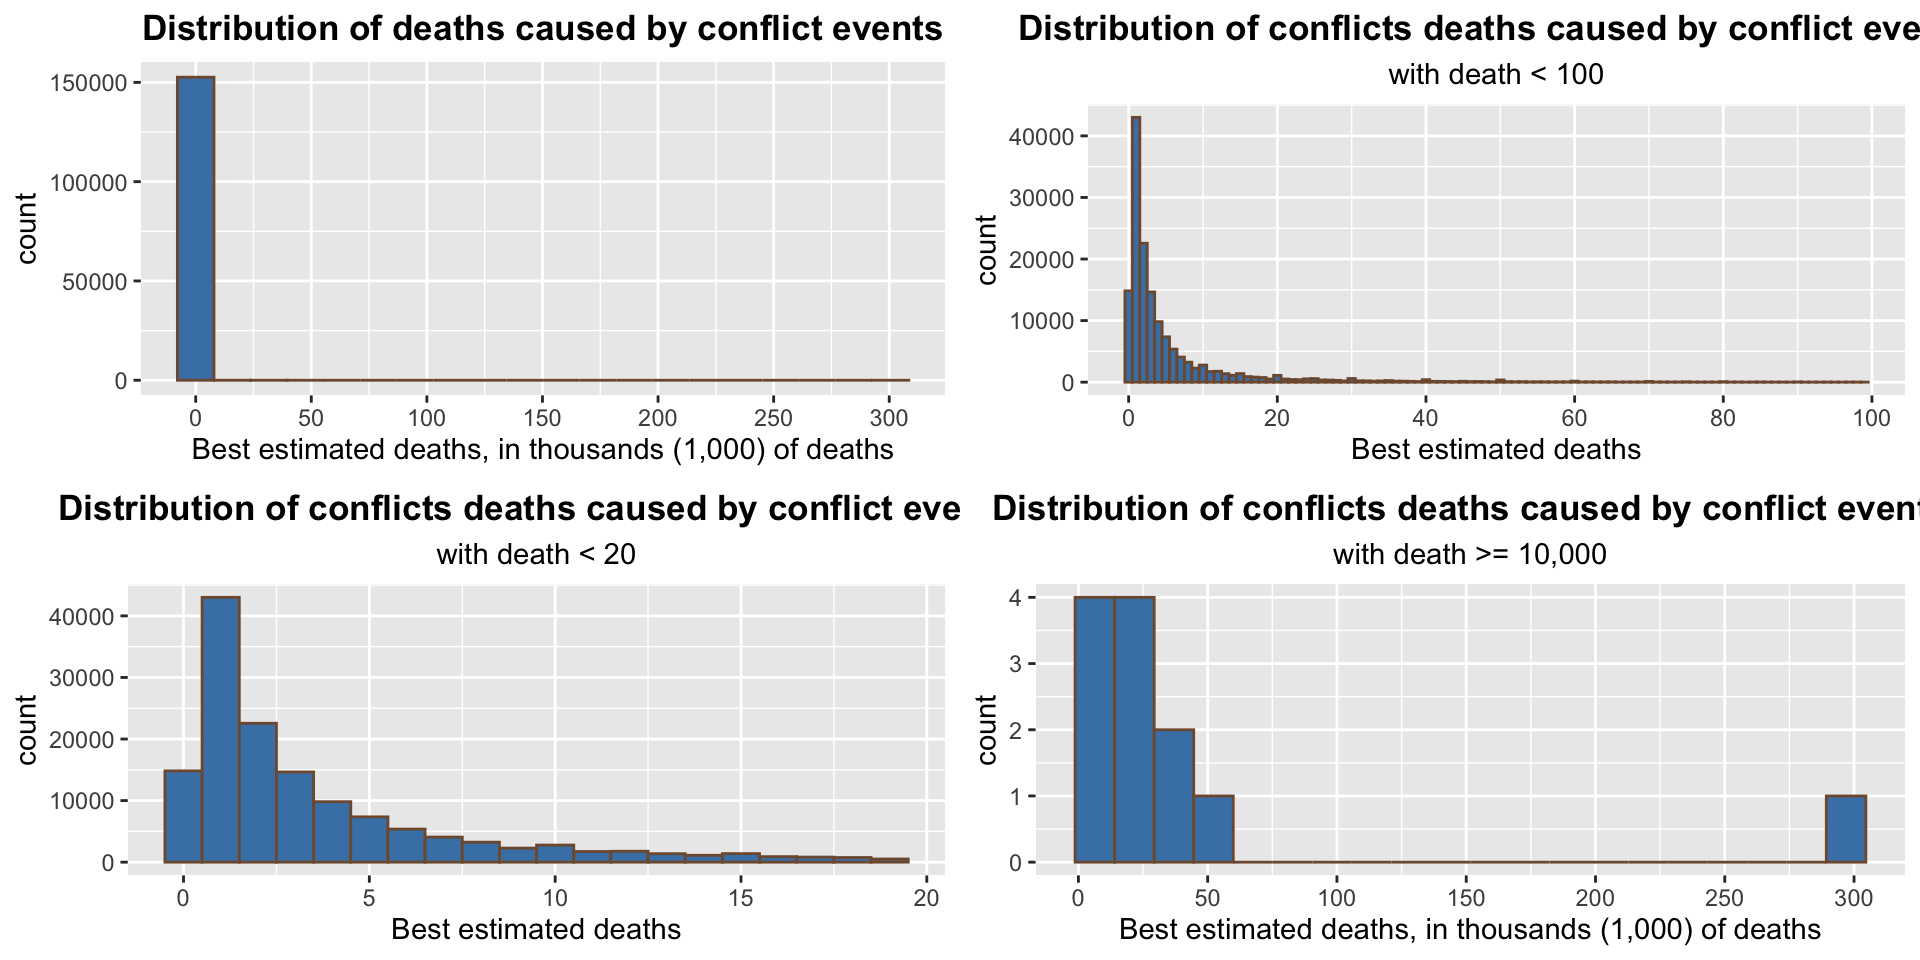
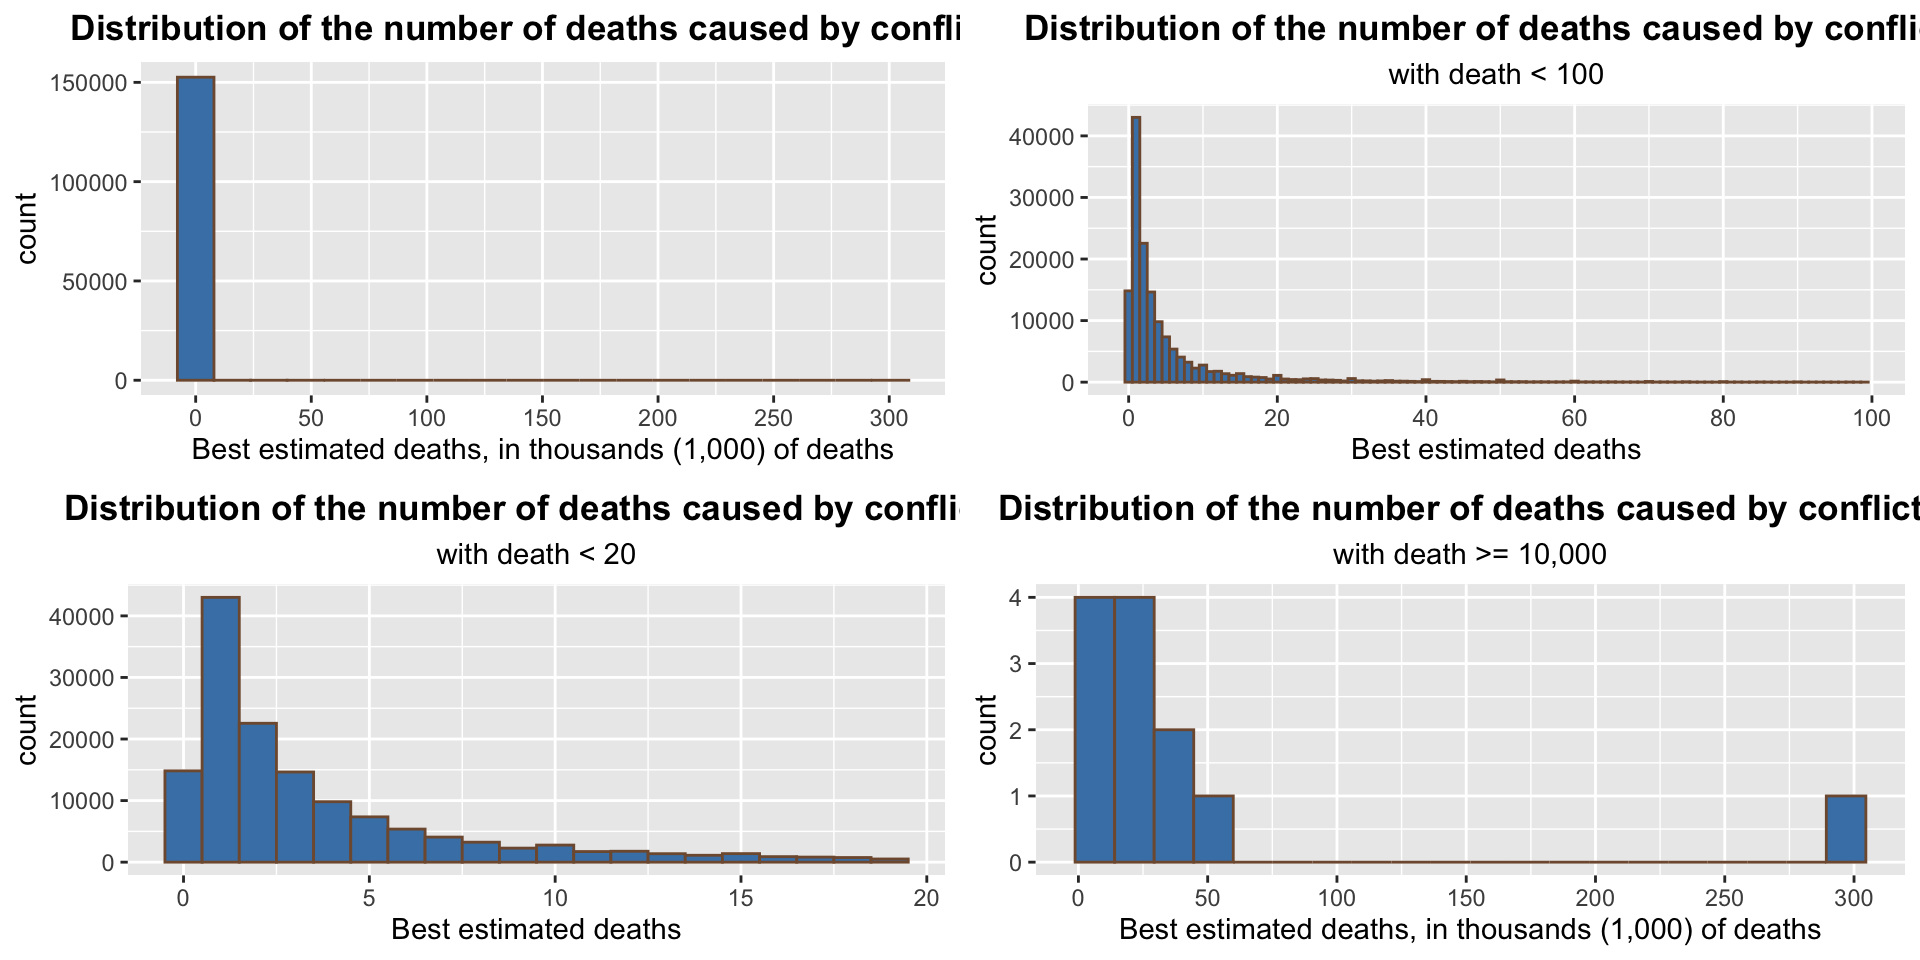
Update files

Changed region(s): [[0.0312, 0.5, 1.0, 0.5625], [0.5312, 0.0, 1.0, 0.0625], [0.0312, 0.0, 0.5, 0.0625]]

diff --git a/docs/results.html b/docs/results.html
@@ -74,7 +74,7 @@
 <li class="chapter" data-level="3" data-path="data-transformation.html"><a href="data-transformation.html"><i class="fa fa-check"></i><b>3</b> Data transformation</a></li>
 <li class="chapter" data-level="4" data-path="missing-values.html"><a href="missing-values.html"><i class="fa fa-check"></i><b>4</b> Missing values</a></li>
 <li class="chapter" data-level="5" data-path="results.html"><a href="results.html"><i class="fa fa-check"></i><b>5</b> Results</a><ul>
-<li class="chapter" data-level="5.1" data-path="results.html"><a href="results.html#distribution-of-the-number-of-deaths-based-on-conflict"><i class="fa fa-check"></i><b>5.1</b> Distribution of the number of deaths based on conflict</a></li>
+<li class="chapter" data-level="5.1" data-path="results.html"><a href="results.html#distribution-of-the-number-of-deaths-based-on-conflicts"><i class="fa fa-check"></i><b>5.1</b> Distribution of the number of deaths based on conflicts</a></li>
 <li class="chapter" data-level="5.2" data-path="results.html"><a href="results.html#relation-between-conflict-and-time"><i class="fa fa-check"></i><b>5.2</b> Relation between conflict and time</a></li>
 <li class="chapter" data-level="5.3" data-path="results.html"><a href="results.html#patterns-between-geographical-location-and-type-of-violence"><i class="fa fa-check"></i><b>5.3</b> Patterns between geographical location and type of violence</a></li>
 </ul></li>
@@ -104,12 +104,12 @@
             <section class="normal" id="section-">
 <div id="results" class="section level1">
 <h1><span class="header-section-number">Chapter 5</span> Results</h1>
-<div id="distribution-of-the-number-of-deaths-based-on-conflict" class="section level2">
-<h2><span class="header-section-number">5.1</span> Distribution of the number of deaths based on conflict</h2>
+<div id="distribution-of-the-number-of-deaths-based-on-conflicts" class="section level2">
+<h2><span class="header-section-number">5.1</span> Distribution of the number of deaths based on conflicts</h2>
 <p><img src="https://raw.githubusercontent.com/tonyytliu/world_conflict_data/master/docs/_main_files/figure-html/unnamed-chunk-13-1.png" width="960" style="display: block; margin: auto;" /></p>
-<p>As shown in the top-left plot, the dataset is highly skewed and imbalanced. When we focus on the data with death less than 100 people, we can see the data are more concentrated in &lt;20 regions. Most conflict events have less than five deaths.</p>
+<p>As shown in the top-left plot, the dataset is highly skewed and imbalanced. When we focus on the data with death less than 100 people, we can see the data are more concentrated in &lt;20 regions. Most conflicts have less than five deaths.</p>
 <p><img src="https://raw.githubusercontent.com/tonyytliu/world_conflict_data/master/docs/_main_files/figure-html/unnamed-chunk-14-1.png" width="768" style="display: block; margin: auto;" /></p>
-<p>The above Cleveland plot shows top conflict events which caused most deaths (<span class="math inline">\(\geq\)</span> 5,000), there is a conflict event happened in Rwanda caused approximately 300,000 deaths, which is much more than other conflicts event. Also, most of those events causing significant fatalities were taken place in Rwanda.</p>
+<p>The above Cleveland plot shows top conflicts which caused most deaths (<span class="math inline">\(\geq\)</span> 5,000), there is a conflict happened in Rwanda caused approximately 300,000 deaths, which is much more than other conflicts. Also, most of the conflicts causing significant fatalities were taken place in Rwanda.</p>
 <table>
 <thead>
 <tr class="header">
@@ -204,16 +204,16 @@
 </tr>
 </tbody>
 </table>
-<p>After an investigation of those conflict events, we found out most of them are between the Government of Rewanda and civilians, which was related to the <a href="https://en.wikipedia.org/wiki/Rwandan_genocide" target="_blank">Rwanda genocide</a> in 1994.</p>
+<p>After an investigation of those conflicts, we found out most of them are between the Government of Rewanda and civilians, which was related to the <a href="https://en.wikipedia.org/wiki/Rwandan_genocide" target="_blank">Rwanda genocide</a> in 1994.</p>
 </div>
 <div id="relation-between-conflict-and-time" class="section level2">
 <h2><span class="header-section-number">5.2</span> Relation between conflict and time</h2>
 <p><img src="https://raw.githubusercontent.com/tonyytliu/world_conflict_data/master/docs/_main_files/figure-html/unnamed-chunk-16-1.png" width="480" style="display: block; margin: auto;" /></p>
-<p>As shown in the bar chart, the number of conflict events that occur in each year tends to increase from 1998 to 2018. The number of conflicts is lowest in 1997.</p>
+<p>As shown in the bar chart, the number of conflicts that occur in each year tends to increase from 1998 to 2018. The number of conflicts is lowest in 1997.</p>
 <p><img src="https://raw.githubusercontent.com/tonyytliu/world_conflict_data/master/docs/_main_files/figure-html/unnamed-chunk-18-1.png" width="960" style="display: block; margin: auto;" /></p>
 <p>The conflict-caused deaths are extremely high in 1994, as shown in the left plot. As mentioned in the previous point, a high number of deaths were probably related to the Rwanda genocide. When we filter out the data related to the Rwanda genocide, we get the plot on the right. The conflict-caused death per year decreased from 1989 until 2005, after 2005, the number tends to increase.</p>
 <p><img src="https://raw.githubusercontent.com/tonyytliu/world_conflict_data/master/docs/_main_files/figure-html/unnamed-chunk-19-1.png" width="768" style="display: block; margin: auto;" /></p>
-<p>Most conflict events are state-based conflict, i.e., the conflict involved with “[a] government of a state or any opposition organization or alliance of organizations” [<a href="https://ucdp.uu.se/downloads/ged/ged191.pdf" target="_blank">source</a>, pp.28-29], which is higher in number comparing to the other two types of conflict. Before 2018, there are more one-side conflicts (against civilians) than non-state conflicts (between two armed groups). But in 2018, there are more non-state conflicts compare to one-side conflict.</p>
+<p>Most conflicts are state-based conflict, i.e., the conflict involved with “[a] government of a state or any opposition organization or alliance of organizations” [<a href="https://ucdp.uu.se/downloads/ged/ged191.pdf" target="_blank">source</a>, pp.28-29], which is higher in number comparing to the other two types of conflict. Before 2018, there are more one-side conflicts (against civilians) than non-state conflicts (between two armed groups). But in 2018, there are more non-state conflicts compare to one-side conflict.</p>
 <p>If you are interested in the detailed and formal definition of these three types of conflict, please refer to this <a href="https://ucdp.uu.se/downloads/ged/ged191.pdf" target="_blank">source</a>, pp. 28-31.</p>
 <p>We want to check further how many civilians deaths each year, compare to the deaths of non-civilians caused by conflicts.</p>
 <p><img src="https://raw.githubusercontent.com/tonyytliu/world_conflict_data/master/docs/_main_files/figure-html/unnamed-chunk-20-1.png" width="960" style="display: block; margin: auto;" /></p>

diff --git a/docs/data-sources.html b/docs/data-sources.html
@@ -74,7 +74,7 @@
 <li class="chapter" data-level="3" data-path="data-transformation.html"><a href="data-transformation.html"><i class="fa fa-check"></i><b>3</b> Data transformation</a></li>
 <li class="chapter" data-level="4" data-path="missing-values.html"><a href="missing-values.html"><i class="fa fa-check"></i><b>4</b> Missing values</a></li>
 <li class="chapter" data-level="5" data-path="results.html"><a href="results.html"><i class="fa fa-check"></i><b>5</b> Results</a><ul>
-<li class="chapter" data-level="5.1" data-path="results.html"><a href="results.html#distribution-of-the-number-of-deaths-based-on-conflict"><i class="fa fa-check"></i><b>5.1</b> Distribution of the number of deaths based on conflict</a></li>
+<li class="chapter" data-level="5.1" data-path="results.html"><a href="results.html#distribution-of-the-number-of-deaths-based-on-conflicts"><i class="fa fa-check"></i><b>5.1</b> Distribution of the number of deaths based on conflicts</a></li>
 <li class="chapter" data-level="5.2" data-path="results.html"><a href="results.html#relation-between-conflict-and-time"><i class="fa fa-check"></i><b>5.2</b> Relation between conflict and time</a></li>
 <li class="chapter" data-level="5.3" data-path="results.html"><a href="results.html#patterns-between-geographical-location-and-type-of-violence"><i class="fa fa-check"></i><b>5.3</b> Patterns between geographical location and type of violence</a></li>
 </ul></li>
@@ -106,7 +106,7 @@
 <h1><span class="header-section-number">Chapter 2</span> Data sources</h1>
 <p>UCDP Georeferenced Event Dataset (GED) Global version 19.1 from UCDP Dataset (<a href="https://ucdp.uu.se/downloads/index.html#ged_global" class="uri">https://ucdp.uu.se/downloads/index.html#ged_global</a>) is used in our project, this dataset covers “individual events of organized violence (phenomena of lethal violence occurring at a given time and place)” in a world-wide perspective [<a href="https://ucdp.uu.se/downloads/index.html#ged_global" target="_blank">source</a>].</p>
 <p>There are 152,616 records in the dataset, and each record in the dataset is an event of a specific conflict. An event of a conflict is defined as “An incident where armed force was used by an organized actor against another organized actor, or against civilians.” [<a href="https://ucdp.uu.se/downloads/ged/ged191.pdf" target="_blank">source</a>].</p>
-<p>To avoid potential ambiguities, “conflict event” is used in our project to express the term “event” in the original terminology. This dataset contains data of armed conflict events from a world-wide perspective, from 1989 to 2018; includes the time, geographic location, type, casualties, and other information regarding the conflict event.</p>
+<p>We simply use the term “conflict” in our project to express “event of a conflict” or “event” in the original terminology. This dataset contains data of armed conflict events from a world-wide perspective, from 1989 to 2018; includes the time, geographic location, type, casualties, and other information regarding the conflict event.</p>
 <p>There are a total of 43 variables in the original dataset, and for the full definitions and explanations of variables, please refer to the dataset’s codebook [<a href="https://ucdp.uu.se/downloads/ged/ged191.pdf" target="_blank">source</a>]. However, there are some repeated variables. For example, there are several variables to represent the geo-location of one conflict event, they refer to the same location, but in different formats to suit different geographic databases. In our study, for the location variables, we are only interested in the vanilla <code>latitude</code> and <code>longitude</code> variables.</p>
 <p>For the propose of analyzing conflicts’ data patterns in this project, we mostly focus on a subset of variables; the following are the variables and their explanations. Explanations are referred from the codebook of the dataset [<a href="https://ucdp.uu.se/downloads/ged/ged191.pdf" target="_blank">source</a>].</p>
 <table>
@@ -119,19 +119,19 @@
 <tbody>
 <tr class="odd">
 <td align="left">id</td>
-<td align="left">An unique ID identifying a conflict event</td>
+<td align="left">An unique ID identifying an event of the conflict</td>
 </tr>
 <tr class="even">
 <td align="left">date_start</td>
-<td align="left">The earliest possible date when the conflict event has taken place</td>
+<td align="left">The earliest possible date when the conflict has taken place</td>
 </tr>
 <tr class="odd">
 <td align="left">date_end</td>
-<td align="left">The last possible date when the conflict event has taken place</td>
+<td align="left">The last possible date when the conflict has taken place</td>
 </tr>
 <tr class="even">
 <td align="left">year</td>
-<td align="left">The year of the conflict event</td>
+<td align="left">The year of the conflict happened</td>
 </tr>
 <tr class="odd">
 <td align="left">type_of_violence</td>

diff --git a/docs/index.html b/docs/index.html
@@ -74,7 +74,7 @@
 <li class="chapter" data-level="3" data-path="data-transformation.html"><a href="data-transformation.html"><i class="fa fa-check"></i><b>3</b> Data transformation</a></li>
 <li class="chapter" data-level="4" data-path="missing-values.html"><a href="missing-values.html"><i class="fa fa-check"></i><b>4</b> Missing values</a></li>
 <li class="chapter" data-level="5" data-path="results.html"><a href="results.html"><i class="fa fa-check"></i><b>5</b> Results</a><ul>
-<li class="chapter" data-level="5.1" data-path="results.html"><a href="results.html#distribution-of-the-number-of-deaths-based-on-conflict"><i class="fa fa-check"></i><b>5.1</b> Distribution of the number of deaths based on conflict</a></li>
+<li class="chapter" data-level="5.1" data-path="results.html"><a href="results.html#distribution-of-the-number-of-deaths-based-on-conflicts"><i class="fa fa-check"></i><b>5.1</b> Distribution of the number of deaths based on conflicts</a></li>
 <li class="chapter" data-level="5.2" data-path="results.html"><a href="results.html#relation-between-conflict-and-time"><i class="fa fa-check"></i><b>5.2</b> Relation between conflict and time</a></li>
 <li class="chapter" data-level="5.3" data-path="results.html"><a href="results.html#patterns-between-geographical-location-and-type-of-violence"><i class="fa fa-check"></i><b>5.3</b> Patterns between geographical location and type of violence</a></li>
 </ul></li>
@@ -110,7 +110,7 @@
 <div id="introduction" class="section level1">
 <h1><span class="header-section-number">Chapter 1</span> Introduction</h1>
 <p>More than 70 years have passed after the end of World War II, but the conflicts still seem to wreak havoc around, military and armed activities continued to threaten the peace and stability of the world. “Are we living in a peaceful era?” “Is the world becoming more and more peaceful?” “How many people died because of these conflicts?” Many questions would come out if thinking about the world we live in.</p>
-<p>To have a more comprehensive view of the peace and conflicts, researchers from the Department of Peace and Conflict Research, Uppsala University, have collected and organized data of armed conflicts in the past decades (<a href="https://ucdp.uu.se/downloads/index.html#ged_global" target="_blank">link</a> to their website). This dataset includes the conflict data from 1989 to 2018, which gives us opportunities to further analysis the armed conflicts around the world. (Note that “Conflict” in this project means “armed conflict,” which consists of “incident[s] where armed force was used by an organized actor against another organized actor, or against civilians.” [ <a href="https://ucdp.uu.se/downloads/ged/ged191.pdf" target="_blank">source</a>]
+<p>To have a more comprehensive view of the peace and conflicts, researchers from the Department of Peace and Conflict Research, Uppsala University, have collected and organized data of armed conflicts in the past decades (<a href="https://ucdp.uu.se/downloads/index.html#ged_global" target="_blank">link</a> to their website). This dataset includes the conflict data from 1989 to 2018, which gives us opportunities to further analysis the armed conflicts around the world. (Note that “Conflict” in this project means “armed conflict,” which consists of “incident[s] where armed force was used by an organized actor against another organized actor, or against civilians.” <a href="https://ucdp.uu.se/downloads/ged/ged191.pdf" target="_blank">[source]</a>
 )</p>
 <p>First, we would like to look at some general questions regarding world conflict, “what is the most fierce conflict in the past 30 years?” “What is the distribution of fatalities caused by conflicts?” “How many civilians died in those conflicts?”. Furthermore, we want to investigate the conflicts through time and geographic perspectives, “is the changing of the time change our answers to the above questions?” “what region has the most fierce conflicts?”</p>
 <p>In the following chapters, we will show the information and data, which can give some understandings of the above questions. We hope our analysis in this project will provide you more insights into the broader question of the world’s peace and conflicts.</p>

diff --git a/docs/conclusion.html b/docs/conclusion.html
@@ -74,7 +74,7 @@
 <li class="chapter" data-level="3" data-path="data-transformation.html"><a href="data-transformation.html"><i class="fa fa-check"></i><b>3</b> Data transformation</a></li>
 <li class="chapter" data-level="4" data-path="missing-values.html"><a href="missing-values.html"><i class="fa fa-check"></i><b>4</b> Missing values</a></li>
 <li class="chapter" data-level="5" data-path="results.html"><a href="results.html"><i class="fa fa-check"></i><b>5</b> Results</a><ul>
-<li class="chapter" data-level="5.1" data-path="results.html"><a href="results.html#distribution-of-the-number-of-deaths-based-on-conflict"><i class="fa fa-check"></i><b>5.1</b> Distribution of the number of deaths based on conflict</a></li>
+<li class="chapter" data-level="5.1" data-path="results.html"><a href="results.html#distribution-of-the-number-of-deaths-based-on-conflicts"><i class="fa fa-check"></i><b>5.1</b> Distribution of the number of deaths based on conflicts</a></li>
 <li class="chapter" data-level="5.2" data-path="results.html"><a href="results.html#relation-between-conflict-and-time"><i class="fa fa-check"></i><b>5.2</b> Relation between conflict and time</a></li>
 <li class="chapter" data-level="5.3" data-path="results.html"><a href="results.html#patterns-between-geographical-location-and-type-of-violence"><i class="fa fa-check"></i><b>5.3</b> Patterns between geographical location and type of violence</a></li>
 </ul></li>

diff --git a/docs/data-transformation.html b/docs/data-transformation.html
@@ -74,7 +74,7 @@
 <li class="chapter" data-level="3" data-path="data-transformation.html"><a href="data-transformation.html"><i class="fa fa-check"></i><b>3</b> Data transformation</a></li>
 <li class="chapter" data-level="4" data-path="missing-values.html"><a href="missing-values.html"><i class="fa fa-check"></i><b>4</b> Missing values</a></li>
 <li class="chapter" data-level="5" data-path="results.html"><a href="results.html"><i class="fa fa-check"></i><b>5</b> Results</a><ul>
-<li class="chapter" data-level="5.1" data-path="results.html"><a href="results.html#distribution-of-the-number-of-deaths-based-on-conflict"><i class="fa fa-check"></i><b>5.1</b> Distribution of the number of deaths based on conflict</a></li>
+<li class="chapter" data-level="5.1" data-path="results.html"><a href="results.html#distribution-of-the-number-of-deaths-based-on-conflicts"><i class="fa fa-check"></i><b>5.1</b> Distribution of the number of deaths based on conflicts</a></li>
 <li class="chapter" data-level="5.2" data-path="results.html"><a href="results.html#relation-between-conflict-and-time"><i class="fa fa-check"></i><b>5.2</b> Relation between conflict and time</a></li>
 <li class="chapter" data-level="5.3" data-path="results.html"><a href="results.html#patterns-between-geographical-location-and-type-of-violence"><i class="fa fa-check"></i><b>5.3</b> Patterns between geographical location and type of violence</a></li>
 </ul></li>

diff --git a/docs/interactive-component.html b/docs/interactive-component.html
@@ -74,7 +74,7 @@
 <li class="chapter" data-level="3" data-path="data-transformation.html"><a href="data-transformation.html"><i class="fa fa-check"></i><b>3</b> Data transformation</a></li>
 <li class="chapter" data-level="4" data-path="missing-values.html"><a href="missing-values.html"><i class="fa fa-check"></i><b>4</b> Missing values</a></li>
 <li class="chapter" data-level="5" data-path="results.html"><a href="results.html"><i class="fa fa-check"></i><b>5</b> Results</a><ul>
-<li class="chapter" data-level="5.1" data-path="results.html"><a href="results.html#distribution-of-the-number-of-deaths-based-on-conflict"><i class="fa fa-check"></i><b>5.1</b> Distribution of the number of deaths based on conflict</a></li>
+<li class="chapter" data-level="5.1" data-path="results.html"><a href="results.html#distribution-of-the-number-of-deaths-based-on-conflicts"><i class="fa fa-check"></i><b>5.1</b> Distribution of the number of deaths based on conflicts</a></li>
 <li class="chapter" data-level="5.2" data-path="results.html"><a href="results.html#relation-between-conflict-and-time"><i class="fa fa-check"></i><b>5.2</b> Relation between conflict and time</a></li>
 <li class="chapter" data-level="5.3" data-path="results.html"><a href="results.html#patterns-between-geographical-location-and-type-of-violence"><i class="fa fa-check"></i><b>5.3</b> Patterns between geographical location and type of violence</a></li>
 </ul></li>

diff --git a/docs/missing-values.html b/docs/missing-values.html
@@ -74,7 +74,7 @@
 <li class="chapter" data-level="3" data-path="data-transformation.html"><a href="data-transformation.html"><i class="fa fa-check"></i><b>3</b> Data transformation</a></li>
 <li class="chapter" data-level="4" data-path="missing-values.html"><a href="missing-values.html"><i class="fa fa-check"></i><b>4</b> Missing values</a></li>
 <li class="chapter" data-level="5" data-path="results.html"><a href="results.html"><i class="fa fa-check"></i><b>5</b> Results</a><ul>
-<li class="chapter" data-level="5.1" data-path="results.html"><a href="results.html#distribution-of-the-number-of-deaths-based-on-conflict"><i class="fa fa-check"></i><b>5.1</b> Distribution of the number of deaths based on conflict</a></li>
+<li class="chapter" data-level="5.1" data-path="results.html"><a href="results.html#distribution-of-the-number-of-deaths-based-on-conflicts"><i class="fa fa-check"></i><b>5.1</b> Distribution of the number of deaths based on conflicts</a></li>
 <li class="chapter" data-level="5.2" data-path="results.html"><a href="results.html#relation-between-conflict-and-time"><i class="fa fa-check"></i><b>5.2</b> Relation between conflict and time</a></li>
 <li class="chapter" data-level="5.3" data-path="results.html"><a href="results.html#patterns-between-geographical-location-and-type-of-violence"><i class="fa fa-check"></i><b>5.3</b> Patterns between geographical location and type of violence</a></li>
 </ul></li>
